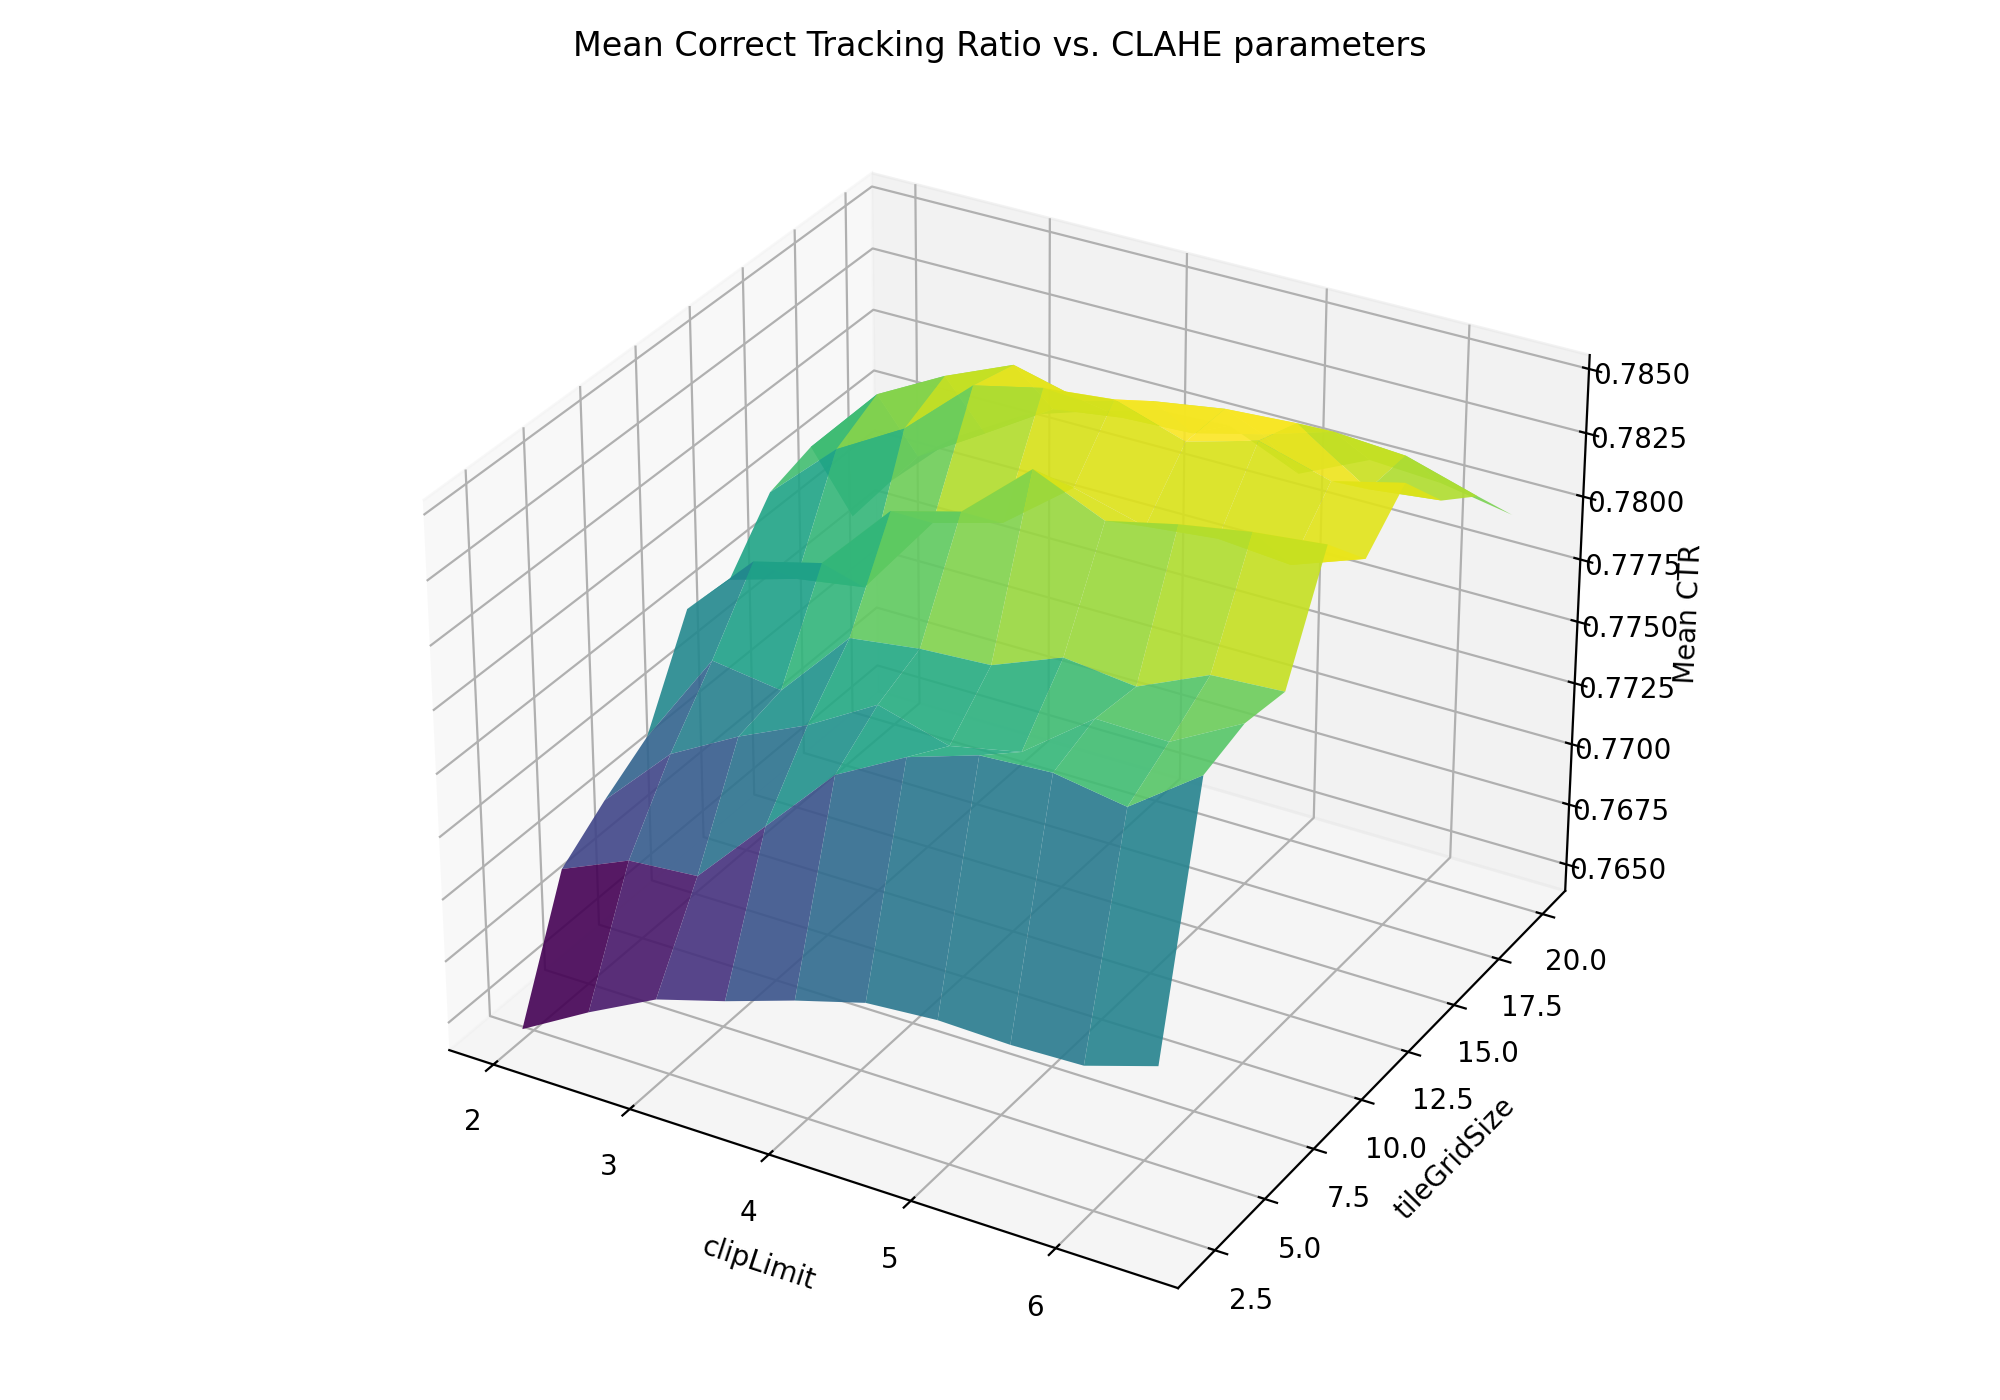
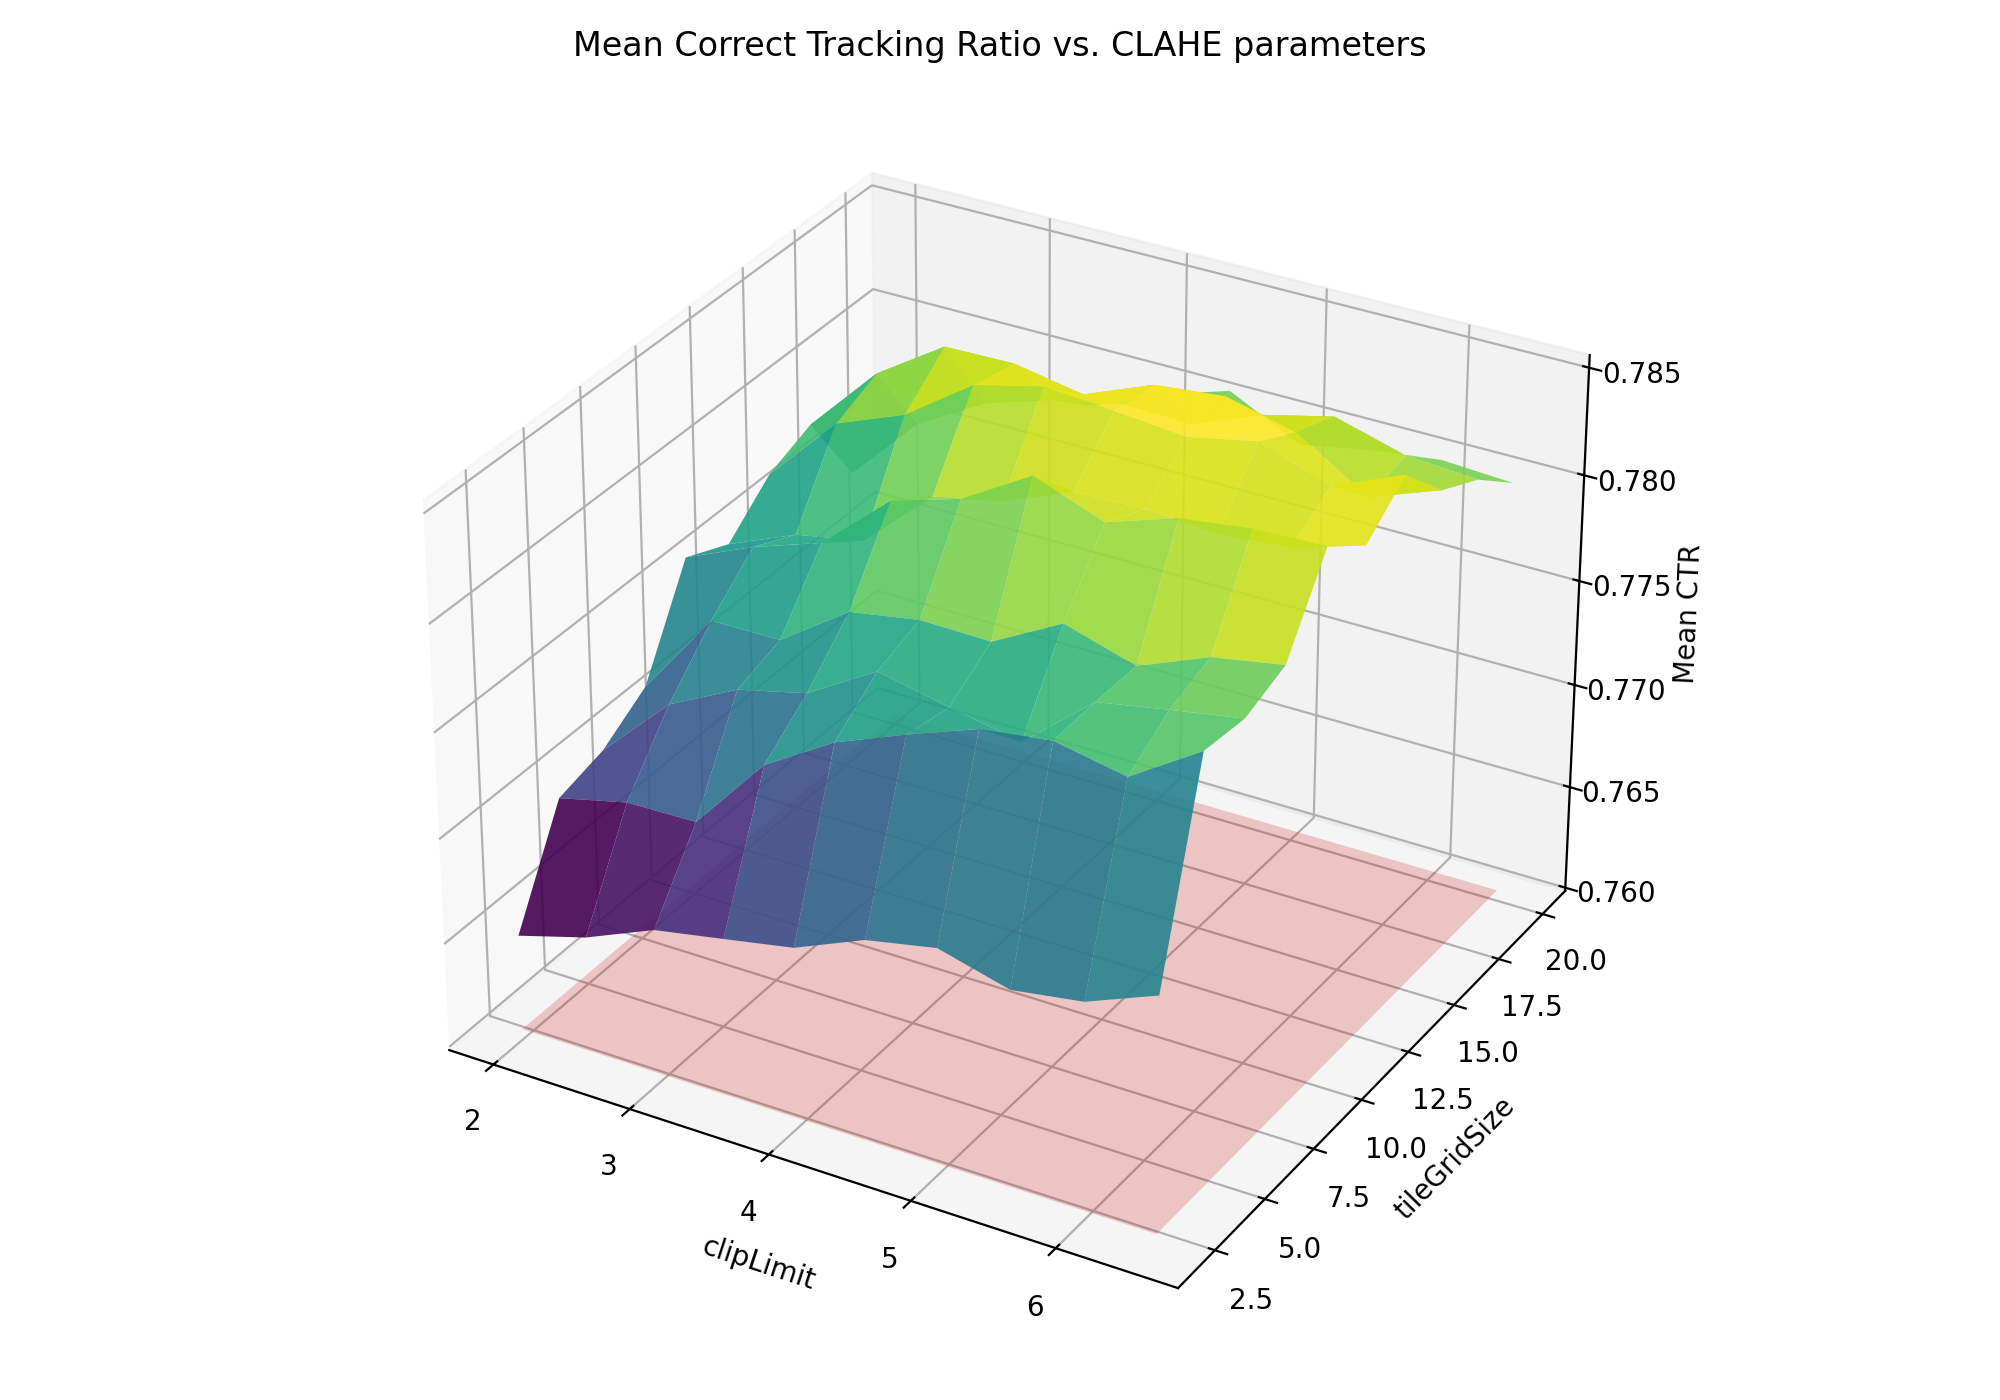
adding metric plotting code

diff --git a/plot_ssr_ctr_vs_sigma.py b/plot_ssr_ctr_vs_sigma.py
@@ -1,0 +1,171 @@
+"""
+Apply Single-Scale Retinex (SSR) to a FlyingChairs-style dataset for multiple
+sigma values, run LET-NET `--chairs` evaluation for each, and plot mean correct
+tracking ratio (CTR) versus sigma.
+
+Usage example:
+python plot_ssr_ctr_vs_sigma.py \
+  --src Flyingchairs_100_dark/data \
+  --demo-bin LET-NET/build/demo \
+  --model-param LET-NET/model/model.param \
+  --model-bin LET-NET/model/model.bin \
+  --sigmas 5 10 15 20 \
+  --out-dir ssr_sweep_results
+"""
+
+import argparse
+import shutil
+import subprocess
+import tempfile
+from pathlib import Path
+
+import cv2
+import numpy as np
+import pandas as pd
+from matplotlib import pyplot as plt
+
+
+def get_ksize(sigma: float) -> int:
+    return int(((sigma - 0.8) / 0.15) + 2.0)
+
+
+def get_gaussian_blur(img: np.ndarray, ksize: int, sigma: float) -> np.ndarray:
+    sep_k = cv2.getGaussianKernel(ksize, sigma)
+    kernel = np.outer(sep_k, sep_k)
+    return cv2.filter2D(img, -1, kernel)
+
+
+def ssr(img: np.ndarray, sigma: float) -> np.ndarray:
+    eps = 1.0
+    ksize = get_ksize(sigma) if sigma > 0 else 3
+    blurred = get_gaussian_blur(img, ksize=ksize, sigma=sigma)
+    res = np.log10(img.astype(np.float32) + eps) - np.log10(blurred + eps)
+    res = res - res.min()
+    res = res / (res.max() + 1e-6)
+    return np.clip(res * 255.0, 0, 255).astype(np.uint8)
+
+
+def process_dataset_with_ssr(src: Path, dst: Path, sigma: float):
+    dst.mkdir(parents=True, exist_ok=True)
+    img1_files = sorted(src.glob("*_img1.ppm"))
+    for img1_path in img1_files:
+        base = img1_path.stem.replace("_img1", "")
+        img2_path = src / f"{base}_img2.ppm"
+        flow_path = src / f"{base}_flow.flo"
+        if not (img2_path.exists() and flow_path.exists()):
+            print(f"Skipping {base}: missing pair/flow.")
+            continue
+        img1 = cv2.imread(str(img1_path), cv2.IMREAD_COLOR)
+        img2 = cv2.imread(str(img2_path), cv2.IMREAD_COLOR)
+        if img1 is None or img2 is None:
+            print(f"Skipping {base}: failed to read images.")
+            continue
+        out1 = ssr(img1, sigma)
+        out2 = ssr(img2, sigma)
+        cv2.imwrite(str(dst / img1_path.name), out1)
+        cv2.imwrite(str(dst / img2_path.name), out2)
+        shutil.copy2(flow_path, dst / flow_path.name)
+
+
+def run_letnet_chairs(demo_bin: Path, model_param: Path, model_bin: Path, data_dir: Path, workdir: Path) -> pd.DataFrame:
+    cmd = [
+        str(demo_bin),
+        str(model_param),
+        str(model_bin),
+        str(data_dir),
+        "--chairs",
+    ]
+    subprocess.run(cmd, check=True, cwd=workdir)
+    metrics_path = workdir / "letnet_chairs_metrics.csv"
+    if not metrics_path.exists():
+        raise FileNotFoundError(f"Metrics file not found at {metrics_path}")
+    return pd.read_csv(metrics_path)
+
+
+def main():
+    parser = argparse.ArgumentParser(description="Plot CTR vs sigma for SSR-processed datasets.")
+    parser.add_argument("--src", type=Path, default=Path("Flyingchairs_100_dark/data"),
+                        help="Source dataset directory (triplets).")
+    parser.add_argument("--demo-bin", type=Path, default=Path("LET-NET/build/demo"),
+                        help="Path to built LET-NET demo binary.")
+    parser.add_argument("--model-param", type=Path, default=Path("LET-NET/model/model.param"),
+                        help="Path to LET-NET model param file.")
+    parser.add_argument("--model-bin", type=Path, default=Path("LET-NET/model/model.bin"),
+                        help="Path to LET-NET model bin file.")
+    parser.add_argument("--sigmas", type=float, nargs="+", default=[5, 10, 15, 20],
+                        help="Sigma values to sweep for SSR.")
+    parser.add_argument("--out-dir", type=Path, default=Path("ssr_sweep_results"),
+                        help="Directory to store per-run metrics and the plot.")
+    parser.add_argument("--export-sigma", type=float, default=None,
+                        help="If set, persist the SSR-processed dataset for this sigma.")
+    parser.add_argument("--export-dir", type=Path, default=Path("CLAHE_100_SSr/data"),
+                        help="Where to write the exported SSR dataset (used with --export-sigma).")
+    args = parser.parse_args()
+
+    src_dir = args.src.resolve()
+    demo_bin = args.demo_bin.resolve()
+    model_param = args.model_param.resolve()
+    model_bin = args.model_bin.resolve()
+    args.out_dir.mkdir(parents=True, exist_ok=True)
+
+    sigma_vals = []
+    ctr_means = []
+
+    # Baseline without SSR.
+    print("Running baseline (no SSR) on source dataset...")
+    with tempfile.TemporaryDirectory() as base_tmp_str:
+        base_tmp = Path(base_tmp_str)
+        df_base = run_letnet_chairs(
+            demo_bin=demo_bin,
+            model_param=model_param,
+            model_bin=model_bin,
+            data_dir=src_dir,
+            workdir=base_tmp,
+        )
+        baseline_ctr = df_base["correct_tracking_ratio"].mean()
+        base_metrics_out = args.out_dir / "metrics_baseline_no_ssr.csv"
+        df_base.to_csv(base_metrics_out, index=False)
+        print(f"  baseline mean CTR={baseline_ctr:.4f}, metrics saved to {base_metrics_out}")
+
+    for sigma in args.sigmas:
+        print(f"Processing sigma={sigma}...")
+        with tempfile.TemporaryDirectory() as tmpdir_str:
+            tmpdir = Path(tmpdir_str)
+            tmp_data = tmpdir / "data"
+            process_dataset_with_ssr(src_dir, tmp_data, sigma)
+            df = run_letnet_chairs(
+                demo_bin=demo_bin,
+                model_param=model_param,
+                model_bin=model_bin,
+                data_dir=tmp_data,
+                workdir=tmpdir,
+            )
+            mean_ctr = df["correct_tracking_ratio"].mean()
+            sigma_vals.append(sigma)
+            ctr_means.append(mean_ctr)
+            metrics_out = args.out_dir / f"metrics_ssr_sigma{sigma}.csv"
+            df.to_csv(metrics_out, index=False)
+            print(f"  mean CTR={mean_ctr:.4f}, metrics saved to {metrics_out}")
+            # Optional export of processed dataset for a specific sigma.
+            if args.export_sigma is not None and abs(sigma - args.export_sigma) < 1e-6:
+                export_dir = args.export_dir
+                export_dir.mkdir(parents=True, exist_ok=True)
+                for f in tmp_data.iterdir():
+                    shutil.copy2(f, export_dir / f.name)
+                print(f"  exported SSR dataset for sigma={sigma} to {export_dir}")
+
+    plt.figure(figsize=(8, 5))
+    plt.plot(sigma_vals, ctr_means, marker="o")
+    plt.axhline(baseline_ctr, color="red", linestyle="--", label="Baseline (no SSR)")
+    plt.xlabel("Sigma")
+    plt.ylabel("Mean correct tracking ratio")
+    plt.title("SSR sigma sweep (LET-NET CTR)")
+    plt.grid(True)
+    plt.legend()
+    plot_path = args.out_dir / "ssr_ctr_vs_sigma.png"
+    plt.savefig(plot_path, dpi=200)
+    print(f"CTR plot saved to {plot_path}")
+
+
+if __name__ == "__main__":
+    main()

diff --git a/plot_clahe_ctr_surface.py b/plot_clahe_ctr_surface.py
@@ -31,6 +31,7 @@ import numpy as np
 import pandas as pd
 from matplotlib import pyplot as plt
 from mpl_toolkits.mplot3d import Axes3D  # noqa: F401
+import matplotlib.patches as mpatches
 
 
 def apply_clahe_color(img: np.ndarray, clip_limit: float, tile_grid: int) -> np.ndarray:
@@ -110,6 +111,22 @@ def main():
 
     grid_ctr = np.zeros((len(args.tile_sizes), len(args.clip_limits)), dtype=float)
 
+    # Baseline run without CLAHE (on the original dataset).
+    print("Running baseline (no CLAHE) on source dataset...")
+    with tempfile.TemporaryDirectory() as base_tmp_str:
+        base_tmp = Path(base_tmp_str)
+        df_base = run_letnet_chairs(
+            demo_bin=demo_bin,
+            model_param=model_param,
+            model_bin=model_bin,
+            data_dir=src_dir,
+            workdir=base_tmp,
+        )
+        baseline_ctr = df_base["correct_tracking_ratio"].mean()
+        base_metrics_out = args.out_dir / "metrics_baseline_no_clahe.csv"
+        df_base.to_csv(base_metrics_out, index=False)
+        print(f"  baseline mean CTR={baseline_ctr:.4f}, metrics saved to {base_metrics_out}")
+
     for i, tile in enumerate(args.tile_sizes):
         for j, clip in enumerate(args.clip_limits):
             print(f"Running clipLimit={clip}, tileGridSize={tile}...")
@@ -137,11 +154,20 @@ def main():
     Clip, Tile = np.meshgrid(args.clip_limits, args.tile_sizes)
     fig = plt.figure(figsize=(10, 7))
     ax = fig.add_subplot(111, projection="3d")
-    ax.plot_surface(Clip, Tile, grid_ctr, cmap="viridis", edgecolor="none", alpha=0.9)
+    surf = ax.plot_surface(Clip, Tile, grid_ctr, cmap="viridis", edgecolor="none", alpha=0.9)
+    # Baseline plane for reference.
+    baseline_plane = np.ones_like(grid_ctr) * baseline_ctr
+    base_surf = ax.plot_surface(Clip, Tile, baseline_plane, color="red", alpha=0.2, edgecolor="none")
     ax.set_xlabel("clipLimit")
     ax.set_ylabel("tileGridSize")
     ax.set_zlabel("Mean CTR")
     ax.set_title("Mean Correct Tracking Ratio vs. CLAHE parameters")
+    # Legend proxies
+    legend_patches = [
+        mpatches.Patch(color="red", alpha=0.2, label="Baseline (no CLAHE)"),
+        mpatches.Patch(color=plt.cm.viridis(0.6), label="CLAHE surface"),
+    ]
+    ax.legend(handles=legend_patches, loc="upper right")
     plt.tight_layout()
     plot_path = args.out_dir / "ctr_surface.png"
     plt.savefig(plot_path, dpi=200)
